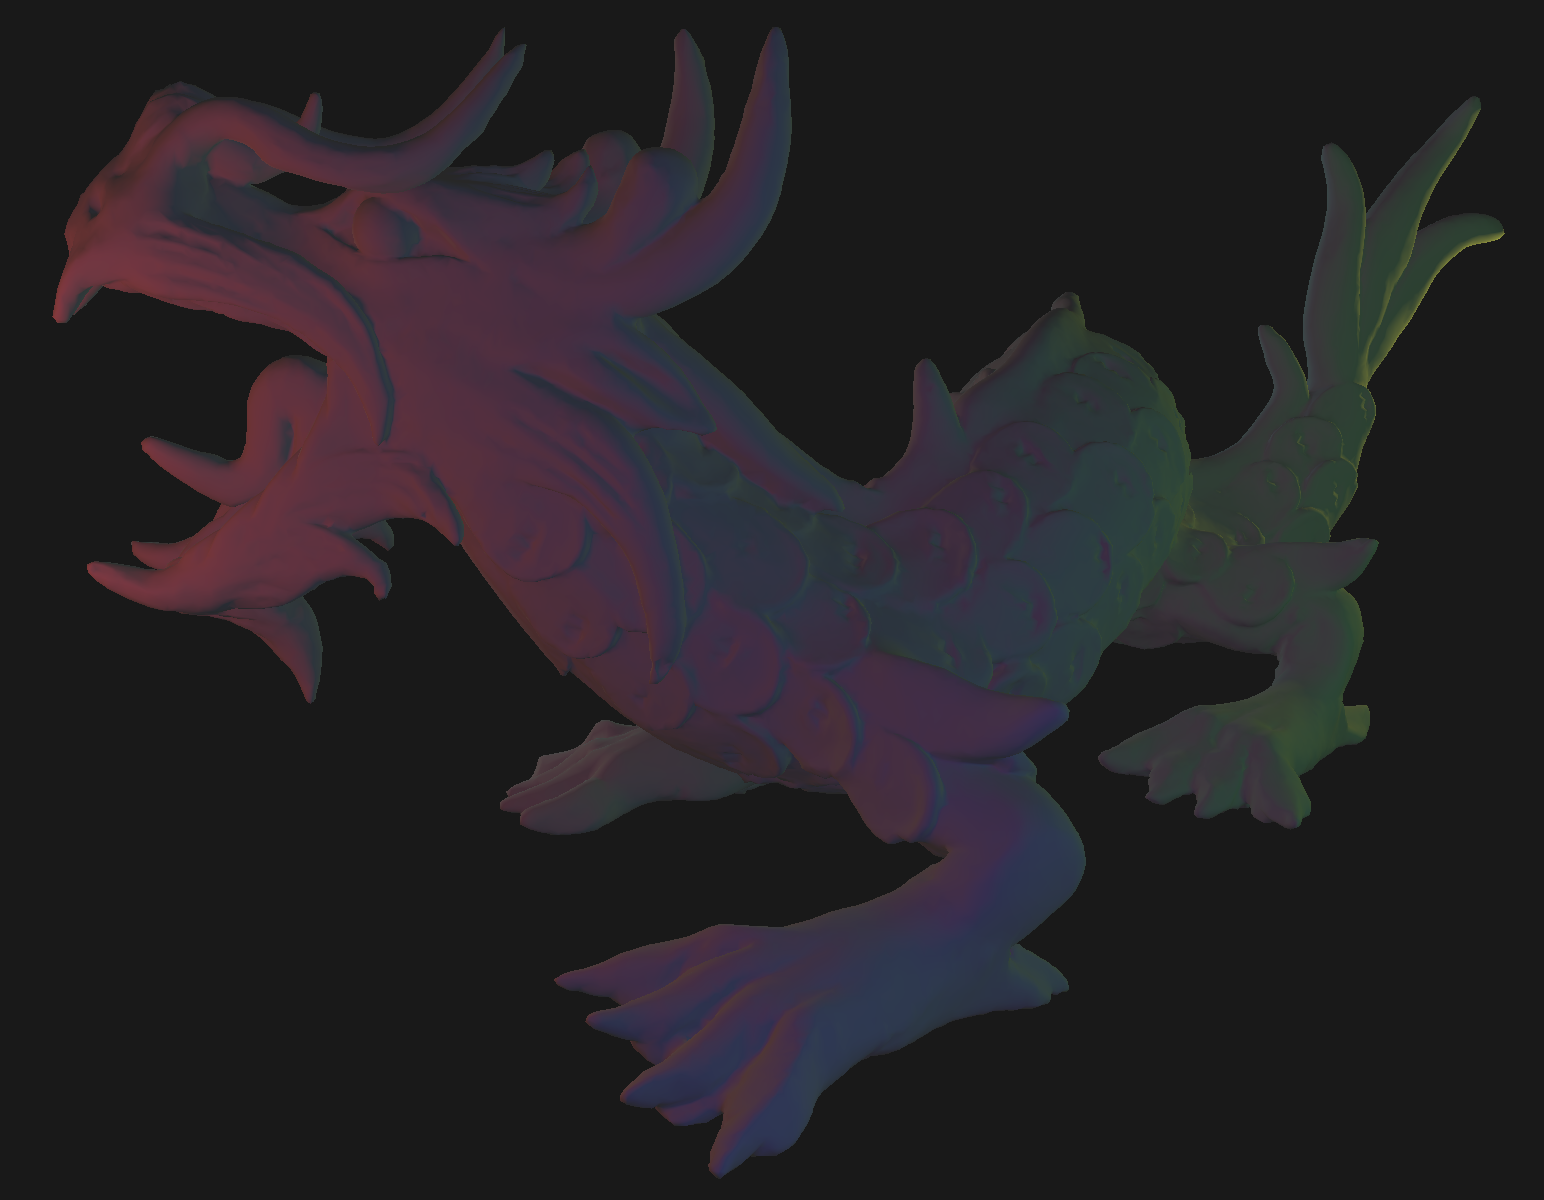
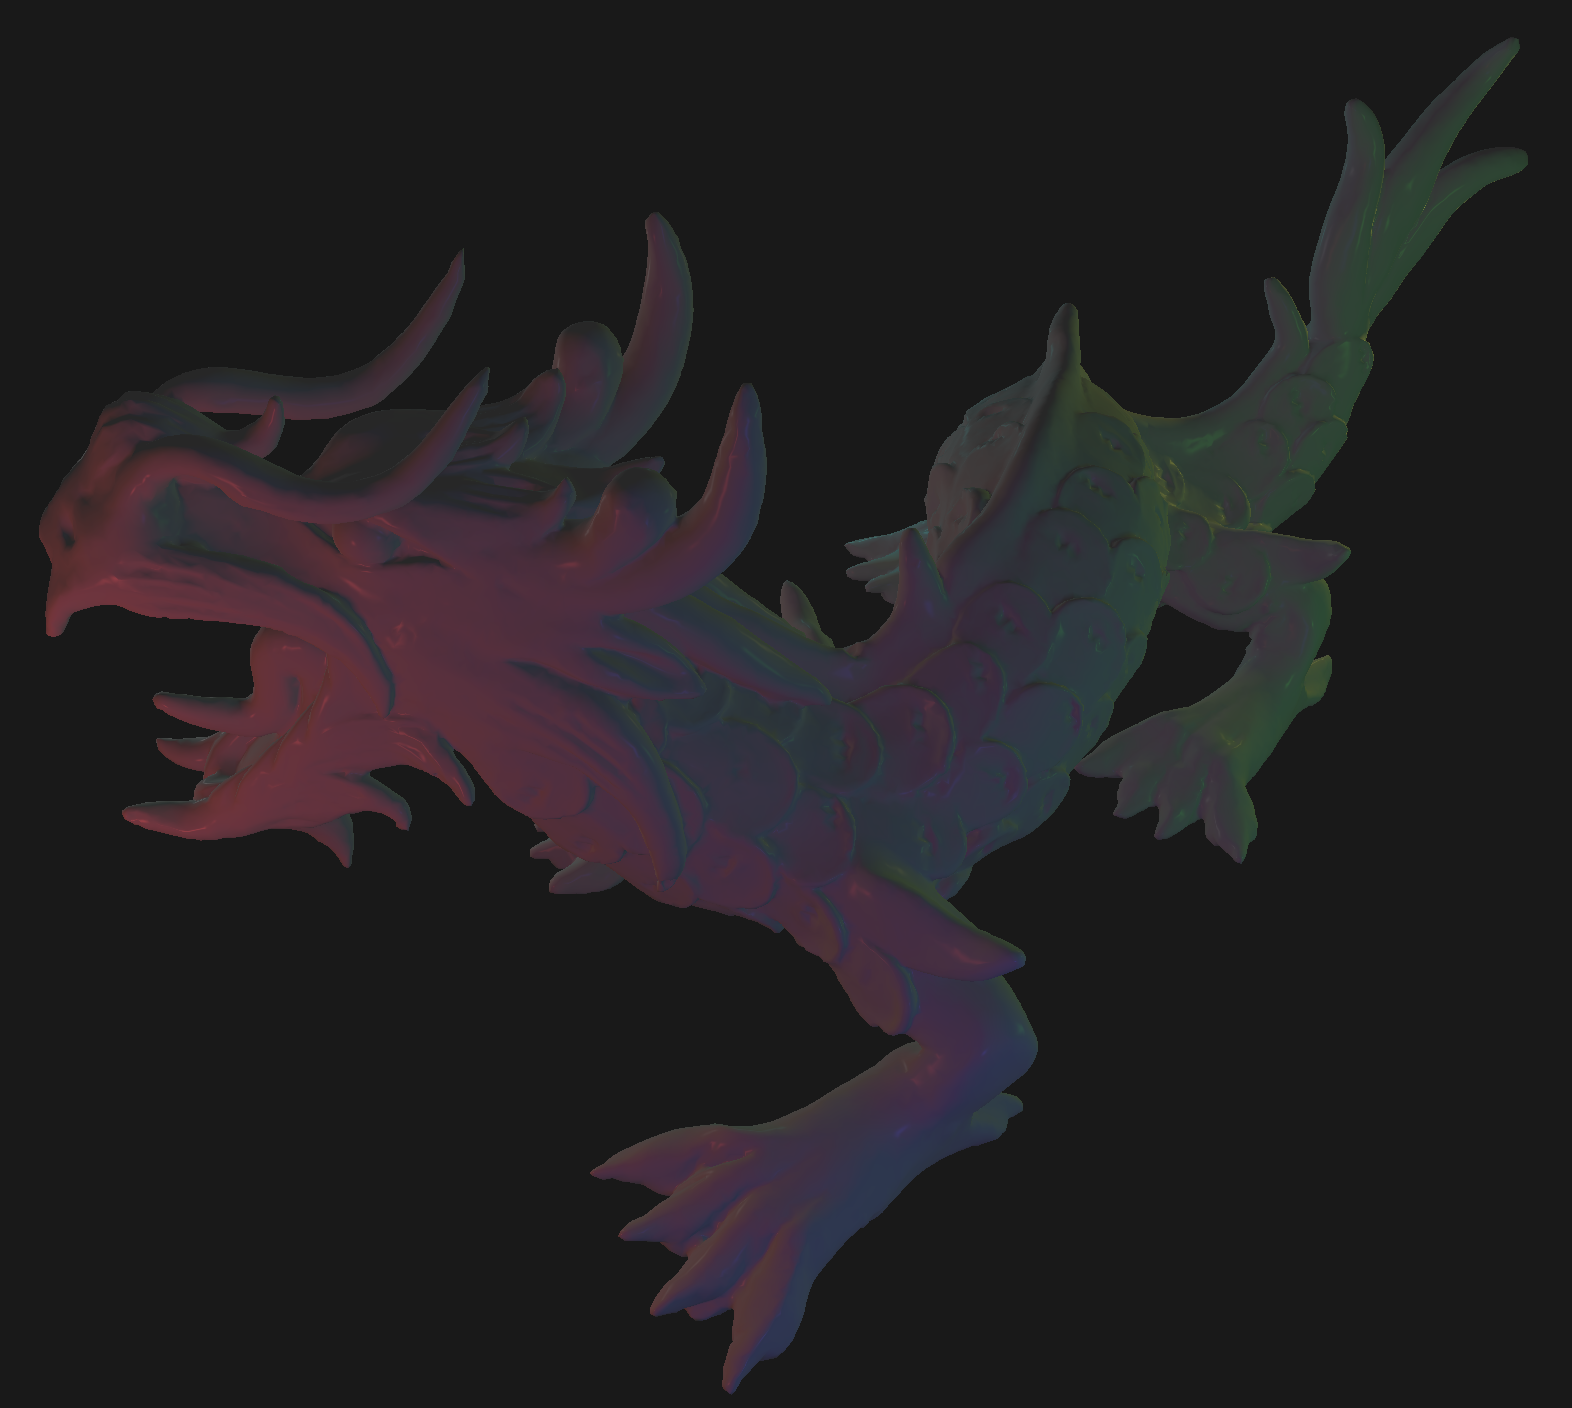
blinn-phong shading

diff --git a/SimpleVulkanEngine/SVECamera.cpp b/SimpleVulkanEngine/SVECamera.cpp
@@ -45,6 +45,20 @@ void SVECamera::setViewDirection(glm::vec3 position, glm::vec3 direction, glm::v
 	viewMatrix[3][0] = -glm::dot(u, position);
 	viewMatrix[3][1] = -glm::dot(v, position);
 	viewMatrix[3][2] = -glm::dot(w, position);
+
+	inverseViewMatrix = glm::mat4{ 1.f };
+	inverseViewMatrix[0][0] = u.x;
+	inverseViewMatrix[0][1] = u.y;
+	inverseViewMatrix[0][2] = u.z;
+	inverseViewMatrix[1][0] = v.x;
+	inverseViewMatrix[1][1] = v.y;
+	inverseViewMatrix[1][2] = v.z;
+	inverseViewMatrix[2][0] = w.x;
+	inverseViewMatrix[2][1] = w.y;
+	inverseViewMatrix[2][2] = w.z;
+	inverseViewMatrix[3][0] = position.x;
+	inverseViewMatrix[3][1] = position.y;
+	inverseViewMatrix[3][2] = position.z;
 }
 
 void SVECamera::setViewTarget(glm::vec3 position, glm::vec3 target, glm::vec3 up)
@@ -63,6 +77,7 @@ void SVECamera::setViewYXZ(glm::vec3 position, glm::vec3 rotation)
 	const glm::vec3 u{ (c1 * c3 + s1 * s2 * s3), (c2 * s3), (c1 * s2 * s3 - c3 * s1) };
 	const glm::vec3 v{ (c3 * s1 * s2 - c1 * s3), (c2 * c3), (c1 * c3 * s2 + s1 * s3) };
 	const glm::vec3 w{ (c2 * s1), (-s2), (c1 * c2) };
+
 	viewMatrix = glm::mat4{ 1.f };
 	viewMatrix[0][0] = u.x;
 	viewMatrix[1][0] = u.y;
@@ -76,4 +91,18 @@ void SVECamera::setViewYXZ(glm::vec3 position, glm::vec3 rotation)
 	viewMatrix[3][0] = -glm::dot(u, position);
 	viewMatrix[3][1] = -glm::dot(v, position);
 	viewMatrix[3][2] = -glm::dot(w, position);
+
+	inverseViewMatrix = glm::mat4{ 1.f };
+	inverseViewMatrix[0][0] = u.x;
+	inverseViewMatrix[0][1] = u.y;
+	inverseViewMatrix[0][2] = u.z;
+	inverseViewMatrix[1][0] = v.x;
+	inverseViewMatrix[1][1] = v.y;
+	inverseViewMatrix[1][2] = v.z;
+	inverseViewMatrix[2][0] = w.x;
+	inverseViewMatrix[2][1] = w.y;
+	inverseViewMatrix[2][2] = w.z;
+	inverseViewMatrix[3][0] = position.x;
+	inverseViewMatrix[3][1] = position.y;
+	inverseViewMatrix[3][2] = position.z;
 }

diff --git a/SimpleVulkanEngine/SVEApp.cpp b/SimpleVulkanEngine/SVEApp.cpp
@@ -101,6 +101,7 @@ void SVEApp::run()
 			GlobalUbo ubo{};
 			ubo.projection = camera.getProjection();
 			ubo.view = camera.getView();
+			ubo.inverseView = camera.getInverseView();
 			cbRenderSystem.update(frameInfo, ubo);
 			uboBuffers[frameIndex]->writeToBuffer(&ubo);
 			uboBuffers[frameIndex]->flush();
@@ -198,8 +199,8 @@ void SVEApp::loadGameObjects()
 	auto flatVase = SVEGameObject::createGameObject();
 	flatVase.model = sveModel;
 	flatVase.transform.translation = { .0f, .0f, .0f };
-	flatVase.transform.scale = { 3.f, 1.5f, 3.f };
-	gameObjects.push_back(std::move(flatVase));*/
+	flatVase.transform.scale = { 9.f, 5.5f, 9.f };
+	gameObjects.emplace(flatVase.getId(), std::move(flatVase));*/
 
 	std::shared_ptr<SVEModel> sveModel = SVEModel::createModelFromFile(sveDevice, DRAGON_MODEL_PATH);
 	auto dragon = SVEGameObject::createGameObject();

diff --git a/SimpleVulkanEngine/SVECamera.h b/SimpleVulkanEngine/SVECamera.h
@@ -17,10 +17,12 @@ public:
 
 	const glm::mat4& getProjection() const { return projectionMatrix; }
 	const glm::mat4& getView() const { return viewMatrix; }
+	const glm::mat4& getInverseView() const { return inverseViewMatrix; }
 
 private:
 	glm::mat4 projectionMatrix{ 1.f };
 	glm::mat4 viewMatrix{ 1.f };
+	glm::mat4 inverseViewMatrix{ 1.f };
 };
 
 #endif

diff --git a/SimpleVulkanEngine/GlobalUBO.h b/SimpleVulkanEngine/GlobalUBO.h
@@ -11,6 +11,7 @@ struct GlobalUbo
 {
 	glm::mat4 projection{ 1.f };
 	glm::mat4 view{ 1.f };
+	glm::mat4 inverseView{ 1.f };
 	glm::vec4 ambientLightColor{ 1.f, 1.f, 1.f, .02f };  // w is intensity
 	PointLight pointLights[MAX_LIGHTS];
 	int numLights;

diff --git a/README.md b/README.md
@@ -6,6 +6,7 @@ Features:
 * Uniform Buffer Objects
 * Push Constants
 * Point lights
+* Blinn-Phong shading
 * OBJ Meshes
 
 TODO:
